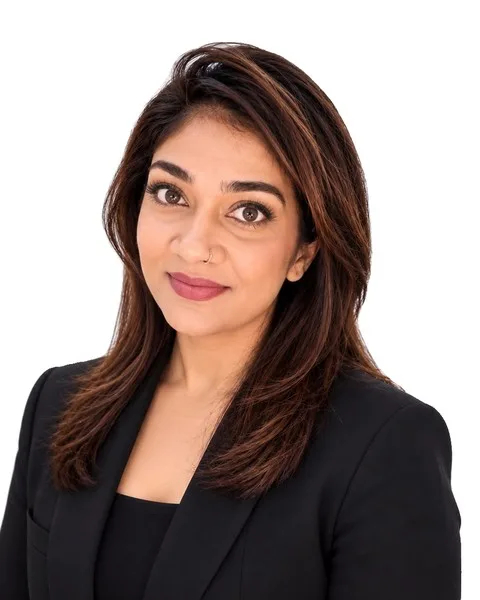
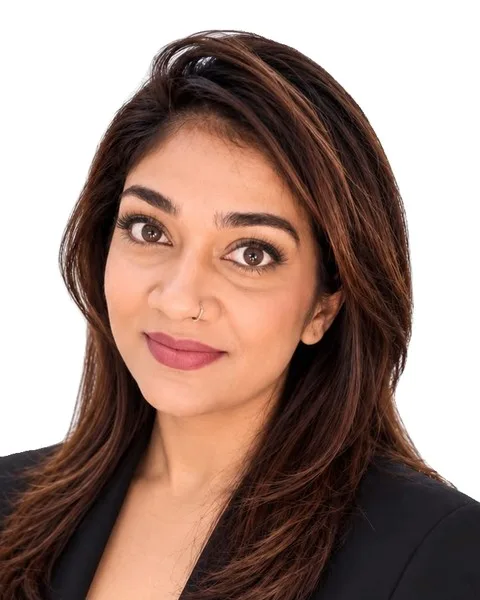
Team: Zahir RERA, Divya crop, mobile spacing

diff --git a/meet-the-team.html b/meet-the-team.html
@@ -13,7 +13,7 @@
 <link rel="icon" href="favicon.svg" type="image/svg+xml"><link rel="apple-touch-icon" href="img/icon-180.png">
 <link rel="preconnect" href="https://fonts.googleapis.com"><link rel="preconnect" href="https://fonts.gstatic.com" crossorigin>
 <link href="https://fonts.googleapis.com/css2?family=Bodoni+Moda:ital,opsz,wght@0,6..96,400;0,6..96,500;1,6..96,400&amp;family=Manrope:wght@300;400;500;600&amp;family=Amiri&amp;display=swap" rel="stylesheet">
-<link rel="stylesheet" href="style.css?v=2810">
+<link rel="stylesheet" href="style.css?v=2811">
 <script type="application/ld+json">{"@context":"https://schema.org","@type":"RealEstateAgent","name":"7ei8ht6 Properties LLC","telephone":"+971 4 443 9780","email":"info@7ei8ht6properties.com","url":"https://7ei8ht6properties.com/","address":{"@type":"PostalAddress","streetAddress":"Amaya Plaza, Office 14","addressLocality":"Nadd Al Hamar, Dubai","addressCountry":"AE"},"hasMap":"https://maps.google.com/?cid=16422721968951027580","aggregateRating":{"@type":"AggregateRating","ratingValue":"4.6","bestRating":"5"},"sameAs":["https://www.instagram.com/7ei8ht6properties/","https://www.facebook.com/p/7ei8ht6-Properties-LLC-100063644737141/","https://www.linkedin.com/company/13218590","https://www.bayut.com/companies/7ei8ht6-properties-8883/"]}</script>
 </head><body class="p-meet-the-team">
 <a class="skip" href="#main">Skip to content</a>
@@ -26,16 +26,16 @@
 <div class="sub-in"><p class="kicker"><span>The team</span></p><h1 class="bi d1"><span class="en">37 people.<br>One advisor for you.</span><span class="ar" lang="ar" dir="rtl">فريقنا</span></h1><p class="lead">Every client is given one named advisor. You can reach any of us directly: the numbers below are our own.</p></div></section>
 <section class="leaders wrap"><article class="leader rv"><div class="ph"><img src="img/t-fayyaz.webp" alt="Portrait of Fayyaz (Abu Mustafa) Sayani" loading="lazy" decoding="async"></div>
 <div class="ld-c"><p class="kicker"><span>Founder &amp; CEO</span></p><h2 class="d2">Fayyaz (Abu Mustafa) Sayani</h2><p class="rera">RERA No. 28370</p><p class="mc"><a href="tel:+971506468786">+971 50 646 8786</a><a href="mailto:fayyaz@7ei8ht6properties.com">fayyaz@7ei8ht6properties.com</a><a href="https://wa.me/971506468786" target="_blank" rel="noopener" aria-label="WhatsApp Fayyaz (Abu Mustafa) Sayani">WhatsApp</a></p></div></article><article class="leader rv"><div class="ph"><img src="img/t-zahir.webp" alt="Portrait of Zahir Alimahomed" loading="lazy" decoding="async"></div>
-<div class="ld-c"><p class="kicker"><span>Director</span></p><h2 class="d2">Zahir Alimahomed</h2><p class="mc"><a href="tel:+971528447229">+971 52 844 7229</a><a href="mailto:zahir@7ei8ht6properties.com">zahir@7ei8ht6properties.com</a><a href="https://wa.me/971528447229" target="_blank" rel="noopener" aria-label="WhatsApp Zahir Alimahomed">WhatsApp</a></p></div></article></section>
+<div class="ld-c"><p class="kicker"><span>Director</span></p><h2 class="d2">Zahir Alimahomed</h2><p class="rera">RERA No. 86228</p><p class="mc"><a href="tel:+971528447229">+971 52 844 7229</a><a href="mailto:zahir@7ei8ht6properties.com">zahir@7ei8ht6properties.com</a><a href="https://wa.me/971528447229" target="_blank" rel="noopener" aria-label="WhatsApp Zahir Alimahomed">WhatsApp</a></p></div></article></section>
 <section class="team wrap"><div class="filters" role="group" aria-label="Filter the team">
 <button class="chip on" data-f="all">Everyone (35)</button><button class="chip" data-f="Office Manager">Office Manager</button><button class="chip" data-f="Executive Assistant">Executive Assistant</button><button class="chip" data-f="Administrative Assistant">Administrative Assistant</button><button class="chip" data-f="Associate Director">Associate Director</button><button class="chip" data-f="Property Consultant">Property Consultant</button><button class="chip" data-f="Office Clerk">Office Clerk</button><button class="chip" data-f="Admin Assistant">Admin Assistant</button>
 <label class="search"><span class="sr">Search the team</span><input type="search" id="tsearch" placeholder="Search by name"></label></div>
 <div class="grid"><article class="member" data-role="Office Manager" data-name="asha nagarupillai"><div class="ph"><img src="img/t-asha.webp" alt="Portrait of Asha Nagarupillai" loading="lazy" decoding="async"></div>
 <div class="mi"><h3>Asha Nagarupillai</h3><p class="role">Office Manager</p><p class="mc"><a href="tel:+971552410447">+971 55 241 0447</a><a href="mailto:asha@7ei8ht6properties.com">Email</a><a href="https://wa.me/971552410447" target="_blank" rel="noopener" aria-label="WhatsApp Asha Nagarupillai">WhatsApp</a></p></div></article><article class="member" data-role="Executive Assistant" data-name="aiswarya rajeev"><div class="ph"><img src="img/t-aiswarya.webp" alt="Portrait of Aiswarya Rajeev" loading="lazy" decoding="async"></div>
-<div class="mi"><h3>Aiswarya Rajeev</h3><p class="role">Executive Assistant</p><p class="mc"><a href="tel:+971588008311">+971 58 800 8311</a><a href="mailto:aiswarya@7ei8ht6properties.com">Email</a><a href="https://wa.me/971588008311" target="_blank" rel="noopener" aria-label="WhatsApp Aiswarya Rajeev">WhatsApp</a></p></div></article><article class="member" data-role="Administrative Assistant" data-name="avishna ganesh"><div class="ph"><img src="img/t-avishna.webp?v=2" alt="Portrait of Avishna Ganesh" loading="lazy" decoding="async"></div>
-<div class="mi"><h3>Avishna Ganesh</h3><p class="role">Administrative Assistant</p><p class="mc"><a href="tel:+971508625664">+971 50 862 5664</a><a href="mailto:avishna@7ei8ht6properties.com">Email</a><a href="https://wa.me/971508625664" target="_blank" rel="noopener" aria-label="WhatsApp Avishna Ganesh">WhatsApp</a></p></div></article><article class="member" data-role="Associate Director" data-name="iqbal ahmed abdullah"><div class="ph"><img src="img/t-iqbal.webp?v=2" alt="Portrait of Iqbal Ahmed Abdullah" loading="lazy" decoding="async"></div>
-<div class="mi"><h3>Iqbal Ahmed Abdullah</h3><p class="role">Associate Director</p><p class="mc"><a href="tel:+971506770131">+971 50 677 0131</a><a href="mailto:info@7ei8ht6properties.com">Email</a><a href="https://wa.me/971506770131" target="_blank" rel="noopener" aria-label="WhatsApp Iqbal Ahmed Abdullah">WhatsApp</a></p></div></article><article class="member" data-role="Associate Director" data-name="muhammad ali abdul sattar"><div class="ph"><img src="img/t-alisattar.webp?v=2" alt="Portrait of Muhammad Ali Abdul Sattar" loading="lazy" decoding="async"></div>
-<div class="mi"><h3>Muhammad Ali Abdul Sattar</h3><p class="role">Associate Director</p><p class="mc"><a href="tel:+971554243200">+971 55 424 3200</a><a href="mailto:info@7ei8ht6properties.com">Email</a><a href="https://wa.me/971554243200" target="_blank" rel="noopener" aria-label="WhatsApp Muhammad Ali Abdul Sattar">WhatsApp</a></p></div></article><article class="member" data-role="Property Consultant" data-name="divya prakash"><div class="ph"><img src="img/t-divya.webp?v=2" alt="Portrait of Divya Prakash" loading="lazy" decoding="async"></div>
+<div class="mi"><h3>Aiswarya Rajeev</h3><p class="role">Executive Assistant</p><p class="mc"><a href="tel:+971588008311">+971 58 800 8311</a><a href="mailto:aiswarya@7ei8ht6properties.com">Email</a><a href="https://wa.me/971588008311" target="_blank" rel="noopener" aria-label="WhatsApp Aiswarya Rajeev">WhatsApp</a></p></div></article><article class="member" data-role="Administrative Assistant" data-name="avishna ganesh"><div class="ph"><img src="img/t-avishna.webp?v=3" alt="Portrait of Avishna Ganesh" loading="lazy" decoding="async"></div>
+<div class="mi"><h3>Avishna Ganesh</h3><p class="role">Administrative Assistant</p><p class="mc"><a href="tel:+971508625664">+971 50 862 5664</a><a href="mailto:avishna@7ei8ht6properties.com">Email</a><a href="https://wa.me/971508625664" target="_blank" rel="noopener" aria-label="WhatsApp Avishna Ganesh">WhatsApp</a></p></div></article><article class="member" data-role="Associate Director" data-name="iqbal ahmed abdullah"><div class="ph"><img src="img/t-iqbal.webp?v=3" alt="Portrait of Iqbal Ahmed Abdullah" loading="lazy" decoding="async"></div>
+<div class="mi"><h3>Iqbal Ahmed Abdullah</h3><p class="role">Associate Director</p><p class="mc"><a href="tel:+971506770131">+971 50 677 0131</a><a href="mailto:info@7ei8ht6properties.com">Email</a><a href="https://wa.me/971506770131" target="_blank" rel="noopener" aria-label="WhatsApp Iqbal Ahmed Abdullah">WhatsApp</a></p></div></article><article class="member" data-role="Associate Director" data-name="muhammad ali abdul sattar"><div class="ph"><img src="img/t-alisattar.webp?v=3" alt="Portrait of Muhammad Ali Abdul Sattar" loading="lazy" decoding="async"></div>
+<div class="mi"><h3>Muhammad Ali Abdul Sattar</h3><p class="role">Associate Director</p><p class="mc"><a href="tel:+971554243200">+971 55 424 3200</a><a href="mailto:info@7ei8ht6properties.com">Email</a><a href="https://wa.me/971554243200" target="_blank" rel="noopener" aria-label="WhatsApp Muhammad Ali Abdul Sattar">WhatsApp</a></p></div></article><article class="member" data-role="Property Consultant" data-name="divya prakash"><div class="ph"><img src="img/t-divya.webp?v=3" alt="Portrait of Divya Prakash" loading="lazy" decoding="async"></div>
 <div class="mi"><h3>Divya Prakash</h3><p class="role">Property Consultant</p><p class="rera">RERA No. 100215</p><p class="mc"><a href="tel:+971501475717">+971 50 147 5717</a><a href="mailto:divya@7ei8ht6properties.com">Email</a><a href="https://wa.me/971501475717" target="_blank" rel="noopener" aria-label="WhatsApp Divya Prakash">WhatsApp</a></p></div></article><article class="member" data-role="Property Consultant" data-name="khalid awadh"><div class="ph"><img src="img/t-khalid.webp" alt="Portrait of Khalid Awadh" loading="lazy" decoding="async"></div>
 <div class="mi"><h3>Khalid Awadh</h3><p class="role">Property Consultant</p><p class="rera">RERA No. 30126</p><p class="mc"><a href="tel:+971556207707">+971 55 620 7707</a><a href="mailto:khalid@7ei8ht6properties.com">Email</a><a href="https://wa.me/971556207707" target="_blank" rel="noopener" aria-label="WhatsApp Khalid Awadh">WhatsApp</a></p></div></article><article class="member" data-role="Property Consultant" data-name="yousaf nouman"><div class="ph"><img src="img/t-yousaf.webp" alt="Portrait of Yousaf Nouman" loading="lazy" decoding="async"></div>
 <div class="mi"><h3>Yousaf Nouman</h3><p class="role">Property Consultant</p><p class="rera">RERA No. 42532</p><p class="mc"><a href="tel:+971559168978">+971 55 916 8978</a><a href="mailto:yousaf@7ei8ht6properties.com">Email</a><a href="https://wa.me/971559168978" target="_blank" rel="noopener" aria-label="WhatsApp Yousaf Nouman">WhatsApp</a></p></div></article><article class="member" data-role="Property Consultant" data-name="mohamed rimnaz"><div class="ph"><img src="img/t-rimnaz.webp" alt="Portrait of Mohamed Rimnaz" loading="lazy" decoding="async"></div>

diff --git a/index.html b/index.html
@@ -13,7 +13,7 @@
 <link rel="icon" href="favicon.svg" type="image/svg+xml"><link rel="apple-touch-icon" href="img/icon-180.png">
 <link rel="preconnect" href="https://fonts.googleapis.com"><link rel="preconnect" href="https://fonts.gstatic.com" crossorigin>
 <link href="https://fonts.googleapis.com/css2?family=Bodoni+Moda:ital,opsz,wght@0,6..96,400;0,6..96,500;1,6..96,400&amp;family=Manrope:wght@300;400;500;600&amp;family=Amiri&amp;display=swap" rel="stylesheet">
-<link rel="stylesheet" href="style.css?v=2810">
+<link rel="stylesheet" href="style.css?v=2811">
 <script type="application/ld+json">{"@context":"https://schema.org","@type":"RealEstateAgent","name":"7ei8ht6 Properties LLC","telephone":"+971 4 443 9780","email":"info@7ei8ht6properties.com","url":"https://7ei8ht6properties.com/","address":{"@type":"PostalAddress","streetAddress":"Amaya Plaza, Office 14","addressLocality":"Nadd Al Hamar, Dubai","addressCountry":"AE"},"hasMap":"https://maps.google.com/?cid=16422721968951027580","aggregateRating":{"@type":"AggregateRating","ratingValue":"4.6","bestRating":"5"},"sameAs":["https://www.instagram.com/7ei8ht6properties/","https://www.facebook.com/p/7ei8ht6-Properties-LLC-100063644737141/","https://www.linkedin.com/company/13218590","https://www.bayut.com/companies/7ei8ht6-properties-8883/"]}</script>
 </head><body class="p-index">
 <a class="skip" href="#main">Skip to content</a>
@@ -60,7 +60,7 @@
 <section class="team-band"><div class="wrap tb">
 <div class="tb-copy"><p class="kicker rv"><span>The people</span></p><h2 class="bi d2 rv"><span class="en">37 people.<br>One advisor for you.</span><span class="ar" lang="ar" dir="rtl">فريق من 37 شخصًا<br>ومستشار واحد لك</span></h2>
 <p class="body rv">Led by our founder, Fayyaz (Abu Mustafa) Sayani, and director Zahir Alimahomed. Every client is given one named advisor, reachable directly by phone, email and WhatsApp.</p><a class="tl rv" href="meet-the-team.html">Meet the team</a></div>
-<div class="tb-faces" aria-hidden="true"><img src="img/t-fayyaz.webp" alt="" loading="lazy" decoding="async"><img src="img/t-zahir.webp" alt="" loading="lazy" decoding="async"><img src="img/t-asha.webp" alt="" loading="lazy" decoding="async"><img src="img/t-aiswarya.webp" alt="" loading="lazy" decoding="async"><img src="img/t-avishna.webp?v=2" alt="" loading="lazy" decoding="async"><img src="img/t-iqbal.webp?v=2" alt="" loading="lazy" decoding="async"><img src="img/t-alisattar.webp?v=2" alt="" loading="lazy" decoding="async"><img src="img/t-divya.webp?v=2" alt="" loading="lazy" decoding="async"><img src="img/t-khalid.webp" alt="" loading="lazy" decoding="async"></div></div></section>
+<div class="tb-faces" aria-hidden="true"><img src="img/t-fayyaz.webp" alt="" loading="lazy" decoding="async"><img src="img/t-zahir.webp" alt="" loading="lazy" decoding="async"><img src="img/t-asha.webp" alt="" loading="lazy" decoding="async"><img src="img/t-aiswarya.webp" alt="" loading="lazy" decoding="async"><img src="img/t-avishna.webp?v=3" alt="" loading="lazy" decoding="async"><img src="img/t-iqbal.webp?v=3" alt="" loading="lazy" decoding="async"><img src="img/t-alisattar.webp?v=3" alt="" loading="lazy" decoding="async"><img src="img/t-divya.webp?v=3" alt="" loading="lazy" decoding="async"><img src="img/t-khalid.webp" alt="" loading="lazy" decoding="async"></div></div></section>
 
 <section class="viewing"><div class="v-bg" data-speed="0.18"><picture class=""><source media="(max-width:760px)" srcset="img/x-lake-m.webp"><img src="img/x-lake.webp" alt="A lone abra on the lake beneath the Dubai Fountain at night" loading=lazy decoding="async"></picture></div><div class="v-shade"></div>
 <div class="v-in wrap"><p class="kicker"><span>Concierge</span></p><h2 class="bi d1"><span class="en">Book a private viewing.</span><span class="ar" lang="ar" dir="rtl">احجز معاينة خاصة</span></h2>

diff --git a/invest-in-dubai.html b/invest-in-dubai.html
@@ -13,7 +13,7 @@
 <link rel="icon" href="favicon.svg" type="image/svg+xml"><link rel="apple-touch-icon" href="img/icon-180.png">
 <link rel="preconnect" href="https://fonts.googleapis.com"><link rel="preconnect" href="https://fonts.gstatic.com" crossorigin>
 <link href="https://fonts.googleapis.com/css2?family=Bodoni+Moda:ital,opsz,wght@0,6..96,400;0,6..96,500;1,6..96,400&amp;family=Manrope:wght@300;400;500;600&amp;family=Amiri&amp;display=swap" rel="stylesheet">
-<link rel="stylesheet" href="style.css?v=2810">
+<link rel="stylesheet" href="style.css?v=2811">
 <script type="application/ld+json">{"@context":"https://schema.org","@type":"RealEstateAgent","name":"7ei8ht6 Properties LLC","telephone":"+971 4 443 9780","email":"info@7ei8ht6properties.com","url":"https://7ei8ht6properties.com/","address":{"@type":"PostalAddress","streetAddress":"Amaya Plaza, Office 14","addressLocality":"Nadd Al Hamar, Dubai","addressCountry":"AE"},"hasMap":"https://maps.google.com/?cid=16422721968951027580","aggregateRating":{"@type":"AggregateRating","ratingValue":"4.6","bestRating":"5"},"sameAs":["https://www.instagram.com/7ei8ht6properties/","https://www.facebook.com/p/7ei8ht6-Properties-LLC-100063644737141/","https://www.linkedin.com/company/13218590","https://www.bayut.com/companies/7ei8ht6-properties-8883/"]}</script>
 </head><body class="p-invest-in-dubai">
 <a class="skip" href="#main">Skip to content</a>

diff --git a/services.html b/services.html
@@ -13,7 +13,7 @@
 <link rel="icon" href="favicon.svg" type="image/svg+xml"><link rel="apple-touch-icon" href="img/icon-180.png">
 <link rel="preconnect" href="https://fonts.googleapis.com"><link rel="preconnect" href="https://fonts.gstatic.com" crossorigin>
 <link href="https://fonts.googleapis.com/css2?family=Bodoni+Moda:ital,opsz,wght@0,6..96,400;0,6..96,500;1,6..96,400&amp;family=Manrope:wght@300;400;500;600&amp;family=Amiri&amp;display=swap" rel="stylesheet">
-<link rel="stylesheet" href="style.css?v=2810">
+<link rel="stylesheet" href="style.css?v=2811">
 <script type="application/ld+json">{"@context":"https://schema.org","@type":"RealEstateAgent","name":"7ei8ht6 Properties LLC","telephone":"+971 4 443 9780","email":"info@7ei8ht6properties.com","url":"https://7ei8ht6properties.com/","address":{"@type":"PostalAddress","streetAddress":"Amaya Plaza, Office 14","addressLocality":"Nadd Al Hamar, Dubai","addressCountry":"AE"},"hasMap":"https://maps.google.com/?cid=16422721968951027580","aggregateRating":{"@type":"AggregateRating","ratingValue":"4.6","bestRating":"5"},"sameAs":["https://www.instagram.com/7ei8ht6properties/","https://www.facebook.com/p/7ei8ht6-Properties-LLC-100063644737141/","https://www.linkedin.com/company/13218590","https://www.bayut.com/companies/7ei8ht6-properties-8883/"]}</script>
 </head><body class="p-services">
 <a class="skip" href="#main">Skip to content</a>

diff --git a/careers.html b/careers.html
@@ -13,7 +13,7 @@
 <link rel="icon" href="favicon.svg" type="image/svg+xml"><link rel="apple-touch-icon" href="img/icon-180.png">
 <link rel="preconnect" href="https://fonts.googleapis.com"><link rel="preconnect" href="https://fonts.gstatic.com" crossorigin>
 <link href="https://fonts.googleapis.com/css2?family=Bodoni+Moda:ital,opsz,wght@0,6..96,400;0,6..96,500;1,6..96,400&amp;family=Manrope:wght@300;400;500;600&amp;family=Amiri&amp;display=swap" rel="stylesheet">
-<link rel="stylesheet" href="style.css?v=2810">
+<link rel="stylesheet" href="style.css?v=2811">
 <script type="application/ld+json">{"@context":"https://schema.org","@type":"RealEstateAgent","name":"7ei8ht6 Properties LLC","telephone":"+971 4 443 9780","email":"info@7ei8ht6properties.com","url":"https://7ei8ht6properties.com/","address":{"@type":"PostalAddress","streetAddress":"Amaya Plaza, Office 14","addressLocality":"Nadd Al Hamar, Dubai","addressCountry":"AE"},"hasMap":"https://maps.google.com/?cid=16422721968951027580","aggregateRating":{"@type":"AggregateRating","ratingValue":"4.6","bestRating":"5"},"sameAs":["https://www.instagram.com/7ei8ht6properties/","https://www.facebook.com/p/7ei8ht6-Properties-LLC-100063644737141/","https://www.linkedin.com/company/13218590","https://www.bayut.com/companies/7ei8ht6-properties-8883/"]}</script>
 </head><body class="p-careers">
 <a class="skip" href="#main">Skip to content</a>

diff --git a/contact.html b/contact.html
@@ -13,7 +13,7 @@
 <link rel="icon" href="favicon.svg" type="image/svg+xml"><link rel="apple-touch-icon" href="img/icon-180.png">
 <link rel="preconnect" href="https://fonts.googleapis.com"><link rel="preconnect" href="https://fonts.gstatic.com" crossorigin>
 <link href="https://fonts.googleapis.com/css2?family=Bodoni+Moda:ital,opsz,wght@0,6..96,400;0,6..96,500;1,6..96,400&amp;family=Manrope:wght@300;400;500;600&amp;family=Amiri&amp;display=swap" rel="stylesheet">
-<link rel="stylesheet" href="style.css?v=2810">
+<link rel="stylesheet" href="style.css?v=2811">
 <script type="application/ld+json">{"@context":"https://schema.org","@type":"RealEstateAgent","name":"7ei8ht6 Properties LLC","telephone":"+971 4 443 9780","email":"info@7ei8ht6properties.com","url":"https://7ei8ht6properties.com/","address":{"@type":"PostalAddress","streetAddress":"Amaya Plaza, Office 14","addressLocality":"Nadd Al Hamar, Dubai","addressCountry":"AE"},"hasMap":"https://maps.google.com/?cid=16422721968951027580","aggregateRating":{"@type":"AggregateRating","ratingValue":"4.6","bestRating":"5"},"sameAs":["https://www.instagram.com/7ei8ht6properties/","https://www.facebook.com/p/7ei8ht6-Properties-LLC-100063644737141/","https://www.linkedin.com/company/13218590","https://www.bayut.com/companies/7ei8ht6-properties-8883/"]}</script>
 </head><body class="p-contact">
 <a class="skip" href="#main">Skip to content</a>

diff --git a/areas.html b/areas.html
@@ -13,7 +13,7 @@
 <link rel="icon" href="favicon.svg" type="image/svg+xml"><link rel="apple-touch-icon" href="img/icon-180.png">
 <link rel="preconnect" href="https://fonts.googleapis.com"><link rel="preconnect" href="https://fonts.gstatic.com" crossorigin>
 <link href="https://fonts.googleapis.com/css2?family=Bodoni+Moda:ital,opsz,wght@0,6..96,400;0,6..96,500;1,6..96,400&amp;family=Manrope:wght@300;400;500;600&amp;family=Amiri&amp;display=swap" rel="stylesheet">
-<link rel="stylesheet" href="style.css?v=2810">
+<link rel="stylesheet" href="style.css?v=2811">
 <script type="application/ld+json">{"@context":"https://schema.org","@type":"RealEstateAgent","name":"7ei8ht6 Properties LLC","telephone":"+971 4 443 9780","email":"info@7ei8ht6properties.com","url":"https://7ei8ht6properties.com/","address":{"@type":"PostalAddress","streetAddress":"Amaya Plaza, Office 14","addressLocality":"Nadd Al Hamar, Dubai","addressCountry":"AE"},"hasMap":"https://maps.google.com/?cid=16422721968951027580","aggregateRating":{"@type":"AggregateRating","ratingValue":"4.6","bestRating":"5"},"sameAs":["https://www.instagram.com/7ei8ht6properties/","https://www.facebook.com/p/7ei8ht6-Properties-LLC-100063644737141/","https://www.linkedin.com/company/13218590","https://www.bayut.com/companies/7ei8ht6-properties-8883/"]}</script>
 </head><body class="p-areas">
 <a class="skip" href="#main">Skip to content</a>

diff --git a/404.html b/404.html
@@ -13,7 +13,7 @@
 <link rel="icon" href="favicon.svg" type="image/svg+xml"><link rel="apple-touch-icon" href="img/icon-180.png">
 <link rel="preconnect" href="https://fonts.googleapis.com"><link rel="preconnect" href="https://fonts.gstatic.com" crossorigin>
 <link href="https://fonts.googleapis.com/css2?family=Bodoni+Moda:ital,opsz,wght@0,6..96,400;0,6..96,500;1,6..96,400&amp;family=Manrope:wght@300;400;500;600&amp;family=Amiri&amp;display=swap" rel="stylesheet">
-<link rel="stylesheet" href="style.css?v=2810">
+<link rel="stylesheet" href="style.css?v=2811">
 <script type="application/ld+json">{"@context":"https://schema.org","@type":"RealEstateAgent","name":"7ei8ht6 Properties LLC","telephone":"+971 4 443 9780","email":"info@7ei8ht6properties.com","url":"https://7ei8ht6properties.com/","address":{"@type":"PostalAddress","streetAddress":"Amaya Plaza, Office 14","addressLocality":"Nadd Al Hamar, Dubai","addressCountry":"AE"},"hasMap":"https://maps.google.com/?cid=16422721968951027580","aggregateRating":{"@type":"AggregateRating","ratingValue":"4.6","bestRating":"5"},"sameAs":["https://www.instagram.com/7ei8ht6properties/","https://www.facebook.com/p/7ei8ht6-Properties-LLC-100063644737141/","https://www.linkedin.com/company/13218590","https://www.bayut.com/companies/7ei8ht6-properties-8883/"]}</script>
 </head><body class="p-404">
 <a class="skip" href="#main">Skip to content</a>

diff --git a/style.css b/style.css
@@ -611,3 +611,10 @@ html,body{overflow-x:clip}
 .member .role{min-height:1.4em}
 .rera{min-height:1.4em;margin:-2px 0 10px}
 .member .mc{margin-top:auto;padding-top:12px;border-top:1px solid var(--line,rgba(0,0,0,.1))}
+@media (max-width:760px){
+.member h3{min-height:0;display:block;margin-top:2px}
+.member .ph{margin-bottom:12px}
+.member .mc{padding-top:8px;gap:0 16px}
+.member .mc a{min-height:36px;display:inline-flex;align-items:center}
+.grid{row-gap:40px}
+}
